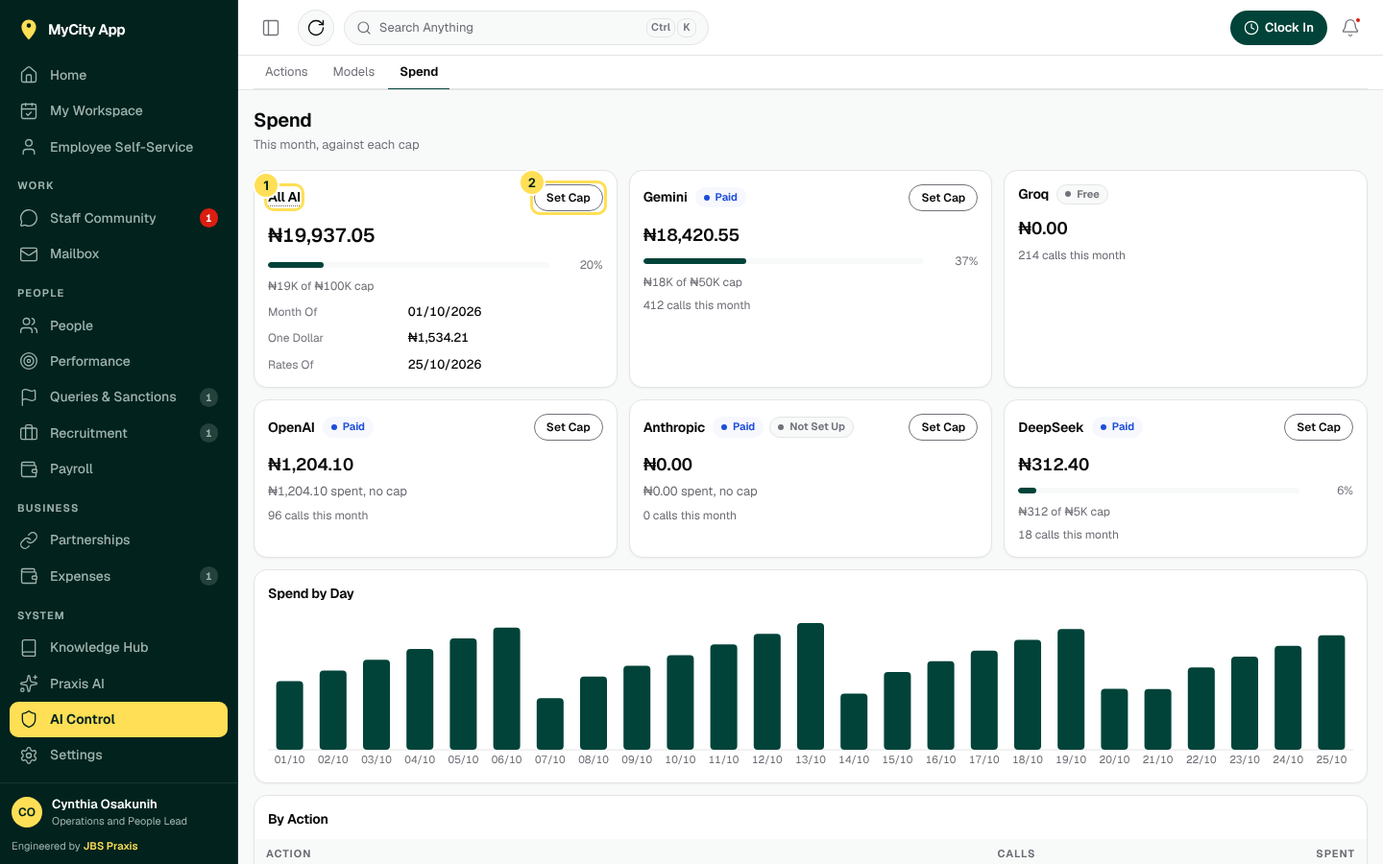
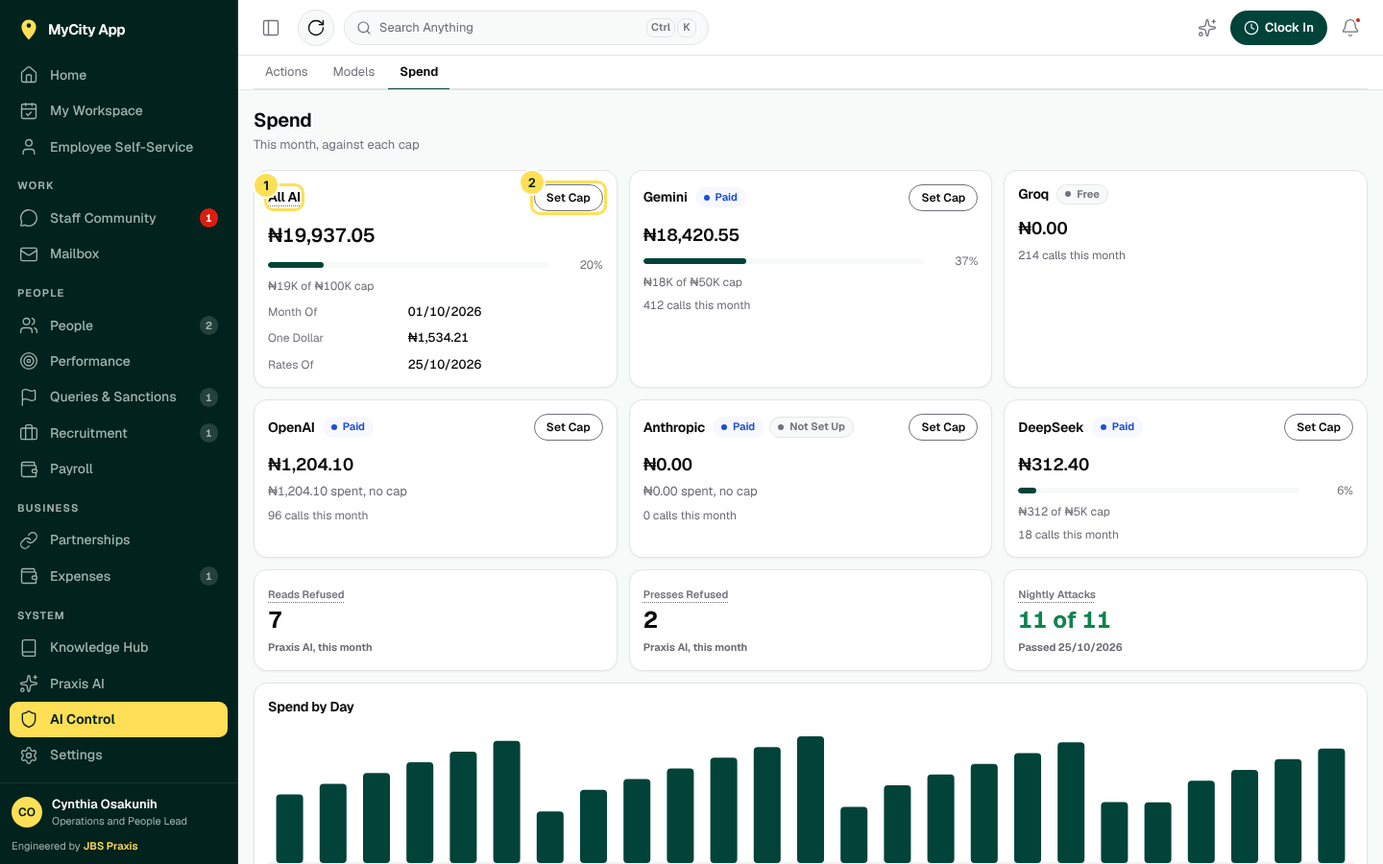
docs(praxis-ai): PR5's documents, the matrix walks pages, the probes find their records through services
The guide's §6.17 (the probes, the attack suite, the nightly run, Spend's figures), §2, §3, §4, §7,
§10, §13 and §14; ai-control.md, policies.md and nine module guides; the User Guide's Praxis AI and
AI Control chapters with their pictures retaken; MILESTONES §15, DATABASE_SCHEMA, README, the
runbooks and SYSTEM_ARCHITECTURE for deploy-gate attack; the handoff's §4, §6.5 and §8 and the
PROGRESS note. The matrix walks up to ten pages of a list, so an all-scope reader's record past the
first page counts; a probe's fresh day is a working day; the approvals probe asks for the approve
grant the queue asks for; the tasks probe shapes its values by the tool probed.

Claude-Session: https://claude.ai/code/session_01AcPpFFJKUaeGvYwdT4JxTu

diff --git a/tests/integration/ai-matrix.test.js b/tests/integration/ai-matrix.test.js
@@ -104,14 +104,14 @@ describeDb("the access matrix on the real migrations and the staging seeds", () 
   const reports = new Map();
   let outsider = null;
   let leaveTypeId = null;
-  const channels = new Map();
   let roles = [];
   let cases = [];
-  /* Weekdays ahead, each handed out once: a probe's leave request or meeting never overlaps another's. */
+  /* Working days ahead (the company's week, public holidays out), each handed out once: a probe's leave request or meeting never overlaps another's. */
+  let calendar = null;
   let dayCursor = new Date(Date.now() + 21 * 86_400_000);
   const freshDay = () => {
     do dayCursor = new Date(dayCursor.getTime() + 86_400_000);
-    while (dayCursor.getUTCDay() === 0 || dayCursor.getUTCDay() === 6);
+    while (!workingWeek.isWorkingDay(dayCursor.toISOString().slice(0, 10), calendar));
     return dayCursor.toISOString().slice(0, 10);
   };
 
@@ -172,7 +172,7 @@ describeDb("the access matrix on the real migrations and the staging seeds", () 
     outsider.scope = await scopeFor(outsider.user, "workspace", "create");
     people.set("ceo", await grantsCache.getAuthUser(pool, ceo.user_id));
     leaveTypeId = (await q("SELECT leave_type_id FROM leave_type WHERE code = 'annual' AND active")).rows[0].leave_type_id;
-    for (const r of (await q("SELECT community_channel_id, name FROM community_channel")).rows) channels.set(r.name, r.community_channel_id);
+    calendar = await workingWeek.loadCalendar(pool);
     await drainOutbox();
     registry.load();
     const tools = [...registry.reads(), ...registry.summaries(), ...registry.actions()];
@@ -279,11 +279,11 @@ describeDb("the access matrix on the real migrations and the staging seeds", () 
       const actor = { ...u, scope };
       const ctx = {
         actor,
+        key: k.key,
         role: k.role,
         report: reports.get(k.role) || null,
         outsider,
         leaveTypeId,
-        channelId: (name) => channels.get(name),
         freshDay,
         capabilities: u.is_ceo === true ? ["home.team"] : await grantsCache.getCapabilities(pool, u.user_id),
         scopeOf: (module, action) => scopeFor(u, module, action),

diff --git a/src/modules/tasks/tasks.ai.js b/src/modules/tasks/tasks.ai.js
@@ -19,15 +19,11 @@ const taskLink = (id) => (routeMap.linkFor("task", id) || {}).path || null;
  * them for themselves, and one on an outsider's board, set by the outsider; the list must return the
  * first and never the second, and a card naming the second is refused by the module's own check.
  */
+/** A probe's answer for one task: the card's values as the tool being probed takes them. */
+const forTask = (ctx, t) => ({ type: "task", id: t.task_id, values: ctx.key === "tasks.comment" ? { task_id: t.task_id, body: "A note from the matrix" } : { task_ids: [t.task_id] } });
 const probe = {
-  inside: async (ctx) => {
-    const t = await service.create(ctx.actor, ctx.actor.scope, { title: `Matrix task for ${ctx.role}` });
-    return { type: "task", id: t.task_id, values: { task_ids: [t.task_id], task_id: t.task_id, body: "A note from the matrix" } };
-  },
-  outside: async (ctx) => {
-    const t = await service.create(ctx.outsider.user, ctx.outsider.scope, { title: `Outsider's task, seen by ${ctx.role}` });
-    return { type: "task", id: t.task_id, values: { task_ids: [t.task_id], task_id: t.task_id, body: "A note from the matrix" } };
-  },
+  inside: async (ctx) => forTask(ctx, await service.create(ctx.actor, ctx.actor.scope, { title: `Matrix task for ${ctx.role}` })),
+  outside: async (ctx) => forTask(ctx, await service.create(ctx.outsider.user, ctx.outsider.scope, { title: `Outsider's task, seen by ${ctx.role}` })),
 };
 
 module.exports = defineManifest({

diff --git a/src/modules/community/community.ai.js b/src/modules/community/community.ai.js
@@ -33,8 +33,16 @@ async function privateChannelOf(ctx) {
  * posted in; a private channel of the outsider's alone is never listed and a card posting in it is
  * refused. A message goes to a colleague on the staff, never to an id that is nobody's.
  */
+/** #general, which every login joins the first time it lists its channels. */
+async function generalChannelOf(ctx) {
+  const general = (await service.listChannels(ctx.actor, {})).data.find((ch) => ch.name === "general");
+  return general ? general.community_channel_id : null;
+}
 const channelProbe = {
-  inside: (ctx) => ({ type: "channel", id: ctx.channelId("general"), values: { community_channel_id: ctx.channelId("general"), body: "A note from the matrix" } }),
+  inside: async (ctx) => {
+    const id = await generalChannelOf(ctx);
+    return id ? { type: "channel", id, values: { community_channel_id: id, body: "A note from the matrix" } } : null;
+  },
   outside: async (ctx) => ({ type: "channel", id: await privateChannelOf(ctx), values: { community_channel_id: await privateChannelOf(ctx), body: "A note from the matrix" } }),
 };
 const messageProbe = {

diff --git a/src/modules/workflow/workflow.ai.js b/src/modules/workflow/workflow.ai.js
@@ -28,11 +28,12 @@ async function waitingFrom(ctx, who) {
 
 /**
  * The matrix's scope probes (docs/guides/praxis-ai.md §6.17): the queue is what waits on the asker, so
- * a report's request (they are its line manager) is in it and an outsider's never; a card naming the
- * outsider's is refused by the module's own check, unless the asker reads every request (`people` all).
+ * a report's request (they are its line manager, and they hold approve on leave's module, which the
+ * queue asks for too) is in it and an outsider's never; a card naming the outsider's is refused by the
+ * module's own check, unless the asker reads every request (`people` all).
  */
 const probe = {
-  inside: (ctx) => (ctx.report ? waitingFrom(ctx, ctx.report) : null),
+  inside: async (ctx) => (ctx.report && (await ctx.scopeOf("people", "approve")) ? waitingFrom(ctx, ctx.report) : null),
   outside: async (ctx) => {
     const people = await ctx.scopeOf("people", "view");
     return people && people.scope === "all" ? null : waitingFrom(ctx, ctx.outsider);

diff --git a/docs/handoff/praxis-ai-engine.md b/docs/handoff/praxis-ai-engine.md
@@ -10,7 +10,7 @@ and its record. It follows the shape of `docs/handoff/notifications-everywhere.m
 | | |
 |---|---|
 | Branch | One branch per PR, from the latest `main` (§4). PR1 was built on `claude/engine-upgrade-guide-xf4ynp` |
-| Pull requests | PR1 praxisjbs/mycity-app#49, merged 01/11/2026; PR2 praxisjbs/mycity-app#50, merged 01/11/2026; PR3 praxisjbs/mycity-app#51, merged 01/11/2026; PR4 praxisjbs/mycity-app#53, merged 01/11/2026 (§6 holds each PR's state) |
+| Pull requests | PR1 praxisjbs/mycity-app#49, merged 01/11/2026; PR2 praxisjbs/mycity-app#50, merged 01/11/2026; PR3 praxisjbs/mycity-app#51, merged 01/11/2026; PR4 praxisjbs/mycity-app#53, merged 01/11/2026; PR5 praxisjbs/mycity-app#56, opened 01/11/2026 (§6 holds each PR's state) |
 | Owner | JBS Praxis (the owner), with TB and GE as the module's owners |
 | Type | Full stack (CLAUDE.md step 1): backend, contract, migrations, screens, gates and documents |
 | Started | 01/11/2026 |
@@ -308,7 +308,7 @@ result line sits under the card. History is unchanged.
 | **PR2** | Full screen and the pane | `claude/sharp-planck-z0g9va` (praxisjbs/mycity-app#50) | Decisions 12, 13, 23: the full-screen Praxis AI with Back and context, the Assistant group in `packages/ui` (conversation, chips, the four pane views, charts, the phone sheet, progress), Table paging through read replay, Record, Sources; the User Guide chapter and pictures | PR1 | Every pane view works on desktop and at 375 px, light and dark; Back returns to the exact screen with its filters; progress shows while reads run; the old Ask's tests moved onto the new screen; gates 8, 11, 21 green |
 | **PR3** | Large data and Excel | `claude/clever-pasteur-nt3rsc`, praxisjbs/mycity-app#51 (merged 01/11/2026) | Decisions 14, 15: summary reads for attendance, tasks, leave, approvals, performance, the Audit Log and employees; the statement timeout and the narrow-down answer; Overview's figures and chart; Download Excel with the provenance sheet through the export path; the summary cache | PR1 (runs beside PR2) | A 25,000-row export completes in the worker and downloads; a read that would scan too much asks to narrow; the model never receives rows from a summary (asserted); Overview shows a chart the server drew |
 | **PR4** | Action cards | `ccr-e4d934cb-hbbhlg` (the session's), praxisjbs/mycity-app#53 (merged 01/11/2026) | Decisions 10, 11, 19, 20, 21: actions declared in Workspace (tasks, calendar), ESS and People (leave request, approve, reject), Approvals (decide), Staff Community (message a colleague, post in a channel), Mailbox (send a mail), Performance (a check-in note where the service allows); the card on screen with Edit, Cancel and the confirm sheet (passkey, PIN, password); bulk up to 25; suggested cards; per-module `not_offered` accounting | PR1 and PR2 | Approve 4 leave requests from the chat works with a passkey and with a PIN; a card replayed after rights were removed is refused; "Tell Ada" drafts a direct message the person sends with one press; a mail drafted from the chat arrives with the company signature; gate 23's action rules green for every module |
-| **PR5** | Proof and switch-over | `m10/praxis-ai-pr5` or the session's | Decisions 26, 27: scope probes per module in the matrix, the attack suite in CI and nightly on staging with the real model, refusal and leak monitoring on AI Control, gate 23's `not_offered` rule made universal, the old Ask retired, `praxis-ai.md` §2 and §10 rewritten to what ships, the User Guide chapter final, the extraction note | PR3 and PR4 | Every listed attack fails safely with the model scripted and with the real model; a planted leak fails the build; the nightly run alerts on a refusal that leaked; the guide and the manual describe one screen |
+| **PR5** | Proof and switch-over | `ccr-0f62841c-d228ng` (the session's), praxisjbs/mycity-app#56 | Decisions 26, 27: scope probes per module in the matrix, the attack suite in CI and nightly on staging with the real model, refusal and leak monitoring on AI Control, gate 23's `not_offered` rule made universal, the old Ask retired, `praxis-ai.md` §2 and §10 rewritten to what ships, the User Guide chapter final, the extraction note | PR3 and PR4 | Every listed attack fails safely with the model scripted and with the real model; a planted leak fails the build; the nightly run alerts on a refusal that leaked; the guide and the manual describe one screen |
 
 **Order.** PR1 first and alone. PR2 and PR3 start together the moment PR1 merges, in two chats. PR4
 starts when PR2 merges (its card is drawn inside PR2's conversation; its backend half may start on
@@ -697,14 +697,14 @@ Tick with the date. A PR's row in §4 moves to its number when opened and "merge
 - [x] 01/11/2026 · The evaluation set's eleven action cases and `card.not-mine` (`no_action`); the attack scaffold in `ai-cards.test.js` (one's own request, a grant never reached, a stranger as recipient, a mail without a mailbox); `ai-actions-{workspace,leave,approvals,community,mailbox}.test.js` on the real migrations (four leave requests approved with a passkey, two rejected with a PIN, self-approval and a request outside scope refused, Tell Ada, a mail queued with the signature baked); `tests/integration/helpers/ai-actions.js`
 - [x] 01/11/2026 · Guide §2, §5, §6.11, §8, §10, §11, §14; each module's guide §9 (workspace, ess, community, mailbox, foundation, performance) and `identity.md`; the User Guide chapter's card section with its picture; PROGRESS; README; FRONTEND_GUIDE §9.1
 
-### 6.5 PR5 · Proof and switch-over
+### 6.5 PR5 · Proof and switch-over (started 01/11/2026, praxisjbs/mycity-app#56)
 
-- [ ] Scope probes in the matrix for every module with team or own scopes
-- [ ] The attack suite in CI; attack-assistant.js; the nightly workflow on staging
-- [ ] Refusals and the nightly result on AI Control · Spend; the urgent notice on a leak
-- [ ] Gate 23's not_offered rule universal; every module swept
-- [ ] The old Ask retired; one screen; dead code removed
-- [ ] Guide §2, §3, §10, §13 final; the User Guide chapter final; MILESTONES §15; README; PROGRESS
+- [x] 01/11/2026 · Scope probes in the matrix: `matrix: { inside, outside }` on the scoped reads and actions of Workspace (`tasks.list`, `tasks.complete`, `tasks.comment`, `calendar.month`), People (`employees.list`, `leave.requests`, `leave.approve`, `leave.reject`, `attendance.register`), Home (`team.today`, `activity.list`), ESS (`my_profile.get`, `my_leave.list`), approvals (`approvals.mine`, `approvals.decide`) and Staff Community (`channels.list`, `community.post`, `community.message`), each built through the module's own service from the `ctx` the suite hands it; the matrix gives each role a report and itself an outsider, walks a list's pages, and asserts every probe (`praxis-ai.md` §6.17). Performance and Queries carry none, and say why
+- [x] 01/11/2026 · The attack suite: `scripts/ai/attack-assistant.js` (eleven attacks, the grades, the run recorded through `recordAttackRun`, production refused), `tests/integration/ai-attacks.test.js` (each attack with the model scripted, every refusal counted, a run recorded and its leak told), `tests/unit/foundation/ai-attacks.test.js`; `deploy-gate attack` (the staging key's third command, no deploy lock, the release's own code) with its refusals in `deploy.test.js`; `.github/workflows/ai-nightly.yml` at 02:17 Lagos, failing loudly on a leak and warning on a run that could not run; releases now carry `scripts/ai`
+- [x] 01/11/2026 · Refusals and the nightly result on AI Control · Spend: `AiSpend.praxis_ai` (`AiPraxisSpend`, `AiAttackRun`), migration `10350` `ai_attack_run`, `assistant.action_refused` recorded at a press refused for want of rights, Reads Refused, Presses Refused and Nightly Attacks as KpiCards with help terms on both shells; `ai_control.attack_leaked` the one notice AI Control sends (urgent, `ai_control` edit, Acknowledge, opens Spend)
+- [x] 01/11/2026 · Gate 23's not_offered rule universal: every module whose contract exports a `<Thing>Create` schema offers it, lists it in `not_offered` with a reason or opted out whole with one; thirteen manifests gained their reasons; `--list` prints the sweep
+- [x] 01/11/2026 · The old Ask retired (decision 27): the floating button's Praxis AI opens the one full-screen Praxis AI with the screen underneath as `from`; `AskPanel.tsx` and its test removed, `ChatPage` carries no context; guide §2, §3 step 8, §10 and the User Guide chapter follow
+- [x] 01/11/2026 · Guide §6.17, §4, §7, §13 (what an extraction moves and what stays), §14; `ai-control.md` §2, §4, §5, §7, §10, §14; `policies.md` (the `policies.read` fix the suite found); the User Guide chapters for Praxis AI and AI Control with their pictures; MILESTONES §15; README; DATABASE_SCHEMA; the runbooks (`deploy.md`, `monitoring.md`) and SYSTEM_ARCHITECTURE §9.5 for `attack`; PROGRESS
 
 ---
 
@@ -716,7 +716,7 @@ Tick with the date. A PR's row in §4 moves to its number when opened and "merge
 | 23 · AI awareness | `scripts/check/ai-awareness.js` | (1) `src/shared/ai/catalogue.snapshot.json` differs from `registry.catalogue()` (keys, kinds, modules, permissions, risk, the hash of each parameter, input and prefill schema): run `npm run gen:ai-catalogue` and review the diff. (2) An action's `input` is not a schema the module's own feature folder validates a form with (`useContractForm(..., <schema>)`), unless the action says `form: "none: <reason>"`. (3) An action key that no integration test exercises, or that the evaluation set (`scripts/ai/eval-assistant.js`) does not grade. (4) A module that declares `actions` and leaves a `<Thing>Create` schema of its contract neither offered nor in `not_offered` with a reason (PR5 makes this rule universal). (5) A Try Asking line (`assistant.suggestions.js`) naming a read that does not exist |
 | 24 · AI engine boundary | `scripts/check/ai-engine-boundary.js` | A file under `src/services/ai/engine/` that requires anything but Node's builtins and its sibling files; a file outside it that reaches into the engine's internals rather than its `index.js` |
 | The matrix | `tests/integration/ai-matrix.test.js` | Any read, summary or action a role may run that `scopeFor` would refuse, or the reverse; a scoped person's rows that the CEO's do not contain; a masked field reaching a person without the field grant; a probe's outside record returned or acted on (PR5) |
-| The attack suite | `tests/integration/ai-cards.test.js` (PR1), `ai-attacks.test.js` (PR5), nightly `scripts/ai/attack-assistant.js` (PR5) | A card run twice, expired, after a grant was removed, over 25 records, or sensitive without a fresh confirm; and from PR5 every attack of §5's PR5 prompt |
+| The attack suite | `tests/integration/ai-cards.test.js` (PR1), `ai-attacks.test.js` (PR5), nightly `scripts/ai/attack-assistant.js` through `deploy-gate attack` and `.github/workflows/ai-nightly.yml` (PR5) | A card run twice, expired, after a grant was removed, over 25 records, or sensitive without a fresh confirm; and from PR5 every attack of §5's PR5 prompt: another person's pay, a guessed id, instructions planted in a message, a note and a policy, an action outside scope, self-approval, a card after the grant went, a bulk card over 25, a mail outside from a suggested card, a read never offered. With the real model a leak fails the nightly and is an urgent notice; AI Control · Spend shows the last run |
 
 ---
 
@@ -782,6 +782,24 @@ Tick with the date. A PR's row in §4 moves to its number when opened and "merge
   `scripts/check/ai-awareness.js` (offered by any manifest), `app/src/auth/FreshSignIn.tsx` (the
   order, `onConfirmed`), the module services and repos the actions run through. Merged as
   praxisjbs/mycity-app#53 once CI was green on GitHub; PR5 may start.
+- 01/11/2026 · JP · PR5 built (§6.5) in one chat, on the session's branch, as praxisjbs/mycity-app#56,
+  once release run 73 had sealed `08f6f0b` (PR1 to PR4 and the boot fix #55) on staging. The matrix's
+  probes, the attack suite and its nightly run, Spend's three figures with the leak notice, gate 23
+  universal, the old Ask retired, the documents final. Found on the way: `policies.read` returned a
+  list envelope for one record and the read guard had refused it since it shipped (the attack suite's
+  planted-policy case found it; fixed, `policies.md`); the three bulk schemas' limit reached a card
+  as Zod's own words ("Array must contain at most 25 element(s)"), now "At most 25"; a scoped module's
+  probe cannot use SQL (gate 19 refused `ctx.db.query` in a manifest), so the suite hands probes the
+  annual leave type and the probes find #general through the service; a list read's inside record
+  may sit past the first page for an all-scope reader, so the matrix walks up to ten pages, which
+  also made the subset rule honest for a CEO's list longer than a page; `GET /notifications` carries
+  no event key, so the leak notice is found by its title on the urgent list. The `attack` command
+  changes `deploy-gate`, so the server's copy must be reinstalled (`deploy.md` §5) before the next
+  release and the first nightly pass check-gate; the nightly needs a provider set up on staging,
+  else it reads Could Not Run. A cloud session's image again lacked `node_modules`, Node 20 and
+  pgvector (installed by hand: `npm ci`, a Node 20 tarball under `/opt/node20`,
+  `postgresql-16-pgvector` after `apt-get update`). Performance and Queries carry no probe (their
+  records need a plan, a round or a raised query), said so in §6.17.
 - 01/11/2026 · JP · The first full run fell on a month's first day and found the suite assumed
   October: the staging reviews seed bound the plans at the real clock, so October's round opened
   with no reviews (on staging too, from 1 November); four screen tests of attendance and the

diff --git a/docs/PROGRESS.md b/docs/PROGRESS.md
@@ -1299,6 +1299,7 @@ order, then PR 3, PR 4 and PR 5 in parallel; each PR moves its own row)
 
 **Notes**
 
+- 01/11/2026 · JP · Praxis AI Engine PR5 of 5, proof and switch-over (`docs/handoff/praxis-ai-engine.md` §6.5; `docs/guides/praxis-ai.md` §6.17, decisions 26 and 27). Built: scope probes on the scoped reads and actions of Workspace, People, Home, ESS, approvals and Staff Community, which the matrix proves for every role with a report and an outsider of its own (a read returns the record inside the person's reach and never the one outside it; a card naming the outside one is refused); the attack suite (`scripts/ai/attack-assistant.js`: eleven attacks, from a colleague's pay and a guessed id through instructions planted in a message, a note and a policy to a bulk card over 25 and a mail offered unasked to an outside address), run with the model scripted on every PR (`tests/integration/ai-attacks.test.js`) and asked of the real model on staging every night (`.github/workflows/ai-nightly.yml` through `deploy-gate attack`), its run recorded (`ai_attack_run`, migration `10350`); AI Control · Spend (#ai_control) shows Reads Refused, Presses Refused and the nightly's last result, and a leak is an urgent notice to whoever may change AI Control; gate 23's Create rule universal (thirteen manifests gained their `not_offered` reasons); the old Ask retired: the floating button opens the one full-screen Praxis AI with the screen underneath as context, `AskPanel` gone; the guide's §2, §3, §10 and §13 and the User Guide chapter describe the one screen. Found on the way: `policies.read` had been refused by the read guard since it shipped (fixed); the bulk lists' limit reads At most 25. Left: nothing of the engine's five PRs; the extraction into JBS Praxis's own repository is a later PR there (§13); Performance and Queries probes wait on records their suites can build.
 - 01/11/2026 · JP · Praxis AI Engine PR4 of 5, action cards (`docs/handoff/praxis-ai-engine.md` §6.4; `docs/guides/praxis-ai.md` §6.11, decisions 10, 11, 19, 20, 21). Built: ten actions declared beside their modules' reads, each the screen's own service function with the person's rights re-checked at the press: `tasks.complete` (Mark Done on up to 25 tasks), `tasks.comment`, `calendar.create`, `my_leave.request`, `leave.approve` and `leave.reject` (up to 25, after Confirm It's You, never one's own), `approvals.decide` (approve, reject or request changes on the requests waiting on the person; one decided on its record refused with its screen), `community.message` ("Tell Ada", sent with one press), `community.post`, `mail.send` (a new `mailbox.ai.js` with no read; the mail saved as a draft and queued with the signature baked; refused without a mailbox); goals declares none and says why; every other Create schema `not_offered`, gate 23 counting an input offered by any manifest. A card names its records through the module's own repo (`records(values, actor, db)`), a bulk card reads back a line per record, and every text is held to ready to send as Write With AI is ("Fill the gap"); prompt version 6. On screen (#67, both shells): `ActionCard` and `ResultLine` in the Assistant group, drawn inside an answer by `app/src/features/assistant/Card.tsx` on the full screen and in the phone's chat (`shows: ["cards", "pane"]`): the fields as a person reads them, the records as chips, the verb with the count, Edit through the form system from the action's own schema, Cancel, a suggested card as a question with Not Now, Confirm It's You before a sensitive card (a passkey first, `useFreshSignIn` reordered) with Set Passkey offered once, Draw It Again on an expired card, Open Mailbox on a mail without one; the mock draws the cards. Tests: `ai-actions-{workspace,leave,approvals,community,mailbox}.test.js` on the real migrations (26 cases: four leave requests approved with a passkey, two rejected with a PIN, self-approval and a record outside scope refused, a gap held on its field, a mail queued and refused), the attack scaffold in `ai-cards.test.js` extended (4), 8 for the two components, 6 screen tests for the card, the evaluation set's eleven action cases and one a person may not make. The User Guide chapter's card section rewritten with its picture. Left: PR5 (proof and switch-over).
 - 01/11/2026 · JP · Praxis AI Engine PR3 of 5, large data and Excel (`docs/handoff/praxis-ai-engine.md` §6.3; `docs/guides/praxis-ai.md` §6.13, §6.16, decisions 14 and 15). Built: eight summary reads beside their modules' reads (`attendance.summary`, `tasks.summary`, `leave.summary`, `approvals.summary`, `goals.summary`, `reviews.summary`, `employees.summary`, `audit.summary`, the Audit Log dropping its `ai:none`), each one SQL in its repo with the reader's scope, at most 20 groups, 10 in a top list and 60 points, never a row, with their query schemas in the contract and `shared/ai/summary.js` naming the figures; every read and summary inside its own transaction with a 3 second statement timeout and a 4 second deadline (`authorise.guarded`), a read the database cuts kept as `timed_out` (migration `10340`) and the model told "too much" to narrow the question; the summary cache in Redis (`shared/ai/summary-cache.js`, 60 seconds, keyed by person and scope); Overview's chart title checked against every value the summary holds, prompt version 5; Download Excel (`POST /ai/answers/:id/reads/:n/export`, `ai_answer_export`, `assistant.read_export_requested`) replaying the read page by page in the worker with the person's rights now, 25,000 rows at most, with About This File; the evaluation set's six summary questions. Tests: `tests/unit/foundation/ai-summaries.test.js` (11), `tests/integration/ai-summaries.test.js` (10 on the real migrations: scope, the caps, the cache, the timeout through a question, Overview, the export and its cap). Once PR2 merged, the Table's Export was wired on the full screen (`app/src/features/assistant/Pane.tsx`, the mock's route, a screen test; User Guide chapter and its pictures). Left: PR4 (the cards), PR5 (proof and switch-over); an index on `attendance_day (attendance_date)` alone, should the company's attendance outgrow the seek on the existing one (LA's table).
 - 01/11/2026 · JP · Praxis AI Engine PR2 of 5, the full screen and the pane (`docs/handoff/praxis-ai-engine.md` §6.2; `docs/guides/praxis-ai.md` decisions 12, 13, 23). Ask (#67) reshaped: on desktop the conversation beside the right pane (Overview, Table, Record, Sources; an empty tab disabled), Back to the screen it was opened from (its address travels as `from`: the question's context, `AiAsk.context` with `shows: ["pane"]`, and where Back, Escape and the browser's Back return, filters and all; from the menu, ⌘K or History, Back goes to History), Recent behind a toggle, the latest answer's pane shown and an earlier answer's chip or Open Figures bringing its own back, the Praxis AI button on every screen's top bar; on a phone opened from a screen the conversation full width and Open Figures opening the pane as a sheet, the floating button's chat sending the screen underneath as context. The Table pages the answer's read again (`GET /ai/answers/:id/reads/:n`, 25 a page, up to 200 rows), a row or the one record opens the Record with Open Record, Sources lists every read with its filters, rows, outcome and the fields masked. Progress over realtime: `assistant.service` pushes `ai:progress` before each read with the question's `Idempotency-Key`, and the screen says Reading leave requests · 2 of 5 for that question alone. New in `packages/ui`: the Assistant group (AssistantShell, AnswerBubble, SourceChip, PaneTabs, OverviewPane, TablePane, RecordPane, SourcesPane, ProgressLine, PaneSheet), each with header, test and gallery page. The contract's `AiReadMade` gains `masked` and `AiAnswerTable` the `read` it came from. Tests: 39 for the group, the Ask suite moved onto the new screen with 7 added (Back and Escape, the context sent, the pane's tabs, an earlier answer's pane, progress, the phone's sheet), the context helper (4), the panel's context, the orchestrator's hook and the service's push. The User Guide chapter rewritten with its pictures retaken. Left: Overview's figures and Download Excel (PR3), the card (PR4), sorting in the Table (the replay route takes only `page`; a sort waits on PR3's read parameters), History unchanged.

diff --git a/docs/guides/praxis-ai.md b/docs/guides/praxis-ai.md
@@ -9,7 +9,7 @@
 | Permission key(s) | `praxis_ai` |
 | Capabilities | none |
 | Screens (PROGRESS.md rows) | Praxis AI · Ask and History (#67, #68) |
-| Status | Draft |
+| Status | Built |
 | Last changed | 01/11/2026 |
 
 Sources: MILESTONES §15 (M10's assistant, its definition of done) and A23 (it reads; since
@@ -740,8 +740,8 @@ outside }`, beside its `run`: `inside(ctx)` is a record within the asking person
 the person, a leave request by a report of theirs, one by an outsider nobody manages), or `null`
 when there is nothing to assert for that person (a reader with no report, a role that sees
 everything has nothing outside). The suite gives each role one report and itself one outsider, and
-hands every probe a `ctx`: the actor with the tool's scope, their report, the outsider, the annual
-leave type, a channel by name, a fresh weekday, their capabilities and `scopeOf()`. A read must
+hands every probe a `ctx`: the actor with the tool's scope, the tool's key, their report, the
+outsider, the annual leave type, a fresh working day, their capabilities and `scopeOf()`. A read must
 return the inside record and never the outside one; a card naming the outside record must be
 refused by `authorise.checkAction` or the action's own `check`. Probed: Workspace (`tasks.list`,
 `tasks.complete`, `tasks.comment`, `calendar.month`), People (`employees.list`, `leave.requests`,
@@ -965,6 +965,7 @@ to this repository's rules, and ported code never names where it came from.
 
 ## 14 · Change log
 
+- 01/11/2026 · JP · Praxis AI Engine PR5, proof and switch-over (`docs/handoff/praxis-ai-engine.md` §6.5; decisions 26 and 27): §6.17 written. The matrix gains scope probes (`matrix: { inside, outside }` beside the scoped reads and actions of Workspace, People, Home, ESS, approvals and Staff Community; each role a report, the suite an outsider; a read returns the inside record and never the outside one, a card naming the outside one is refused by the server's check). The attack suite: `scripts/ai/attack-assistant.js` names eleven attacks and grades the real model's answers (a leak against a catch), `tests/integration/ai-attacks.test.js` runs each with the model scripted on every PR, and `.github/workflows/ai-nightly.yml` asks them of the real model on staging every night through `deploy-gate attack`, recording the run on `ai_attack_run` (migration `10350`, §4) through AI Control's service; AI Control · Spend shows Reads Refused, Presses Refused and the nightly's last result, and a leak is an urgent notice to whoever may change AI Control (`ai-control.md` §7, §10). A press refused for want of rights is `assistant.action_refused` (§7). Gate 23's Create rule is universal (§6.15): every module whose contract exports a Create schema offers it, lists it in `not_offered` or opted out whole; thirteen manifests gained their reasons. The old Ask retired (decision 27): the floating button opens the one full-screen Praxis AI with the screen underneath as `from` (§2, §3 step 8, §10); `AskPanel` and its test are gone. §13 item 5 says what an extraction would move and what stays. Found on the way: `policies.read` returned a list for one record and had been refused by the read guard since it shipped (`policies.md`); the bulk lists' limit now reads At most 25 on a card.
 - 01/11/2026 · JP · Praxis AI Engine PR4, action cards (`docs/handoff/praxis-ai-engine.md` §6.4; decisions 10, 11, 19, 20, 21): ten actions declared beside their modules' reads (§6.11's table: `tasks.complete`, `tasks.comment`, `calendar.create`, `my_leave.request`, `leave.approve`, `leave.reject`, `approvals.decide`, `community.message`, `community.post`, `mail.send`, the mailbox gaining a manifest with no read), each the screen's own service function, a bulk one a line per record; goals declares none and says why; every other Create schema `not_offered`. `records(values, actor, db)` names a card's records through the module's own repo at the draft and the press (`authorise.checkAction` takes a database handle); every text a card carries is held to ready to send as Write With AI is (`answer.gapsIn`, "Fill the gap"); `AiCardField.long`; prompt version 6 (the whole text, nothing invented, no sign-off; only requests waiting on the person; a suggested card as a question). On screen (§2, §10): `ActionCard` and `ResultLine` in the Assistant group, wired by `app/src/features/assistant/Card.tsx` on the full screen and in the phone's chat (`shows: ["cards", "pane"]`); Edit through the form system from the action's schema by its name; Confirm It's You before a sensitive card, a passkey first (`useFreshSignIn` reordered, `identity.md` §10), Set Passkey offered once; Draw It Again; a suggested card as a question with Not Now; Open Mailbox on `NO_MAILBOX`. Gate 23 counts an input offered by any manifest (ESS offers leave's own request). Tests: the matrix covers the actions; `tests/integration/ai-actions-{workspace,leave,approvals,community,mailbox}.test.js` on the real migrations (four leave requests approved with a passkey and two rejected with a PIN, self-approval and a record outside scope refused, Tell Ada sent with one press, a mail queued with the signature baked and refused without a mailbox, a gap held on its field); the attack scaffold extended in `ai-cards.test.js`; the evaluation set's action cases, one per action, and a change the person may not make. §8, §11.
 
 - 01/11/2026 · JP · Praxis AI Engine PR3, large data and Excel (`docs/handoff/praxis-ai-engine.md` §6.3; decisions 14 and 15): eight summary reads declared beside their modules' reads (§6.13 table: attendance, tasks, leave, approvals, performance, reviews, employees, the Audit Log, which drops its `ai:none`), each one SQL with the reader's scope, 20 groups, 10 in a top list, 60 points, never a row, shaped through `shared/ai/summary.js`; every read and summary runs inside its own transaction with a 3 second statement timeout and a 4 second deadline (§6.3 step 8, `authorise.guarded`), a read the database cuts is `timed_out` (migration `10340`, §4; `AiReadMade.outcome`) and the model is told "too much"; the summary cache in Redis, 60 seconds, never across people; Overview drawn from the summary with a title check against every value the summary holds, prompt version 5; Download Excel through the one export path with About This File and a 25,000-row cap (§5, §6.16, §7); the evaluation set's summary questions (§6.10). Found on the way: a read whose service runs on the pool cannot be reached by `SET LOCAL`, so the deadline is held in the guard as well; the attendance seed does not reach the test database, so the suite inserts its own days.

diff --git a/docs/manual/ai-control.md b/docs/manual/ai-control.md
@@ -206,15 +206,22 @@ Spend shows what AI has cost this month, in naira, against each cap.
 3. Each provider shows **Free** or **Paid**, what it spent and this month's calls. A paid one shows
    its cap, or *no cap*. **Not Set Up** means it has no key; **At Cap** means it reached its cap.
    The bar turns amber at 80% and red at 100%.
-4. On a computer, **Spend by Day** shows a bar for each day.
-5. **By Action** lists **Action** (its job under it), **Calls** and **Spent**. With nothing spent
+4. Three tiles show Praxis AI: **Reads Refused** and **Presses Refused** this month, and
+   **Nightly Attacks**, the last result of the questions asked of Praxis AI every night to make sure
+   it gives nobody what their own screens would not. It reads, for example, *11 of 11* with
+   **Passed** and the day; in red, **Leaked**; **Could Not Run** or **Failed**; before the first
+   run, **Not Run**. Hover a tile's title (tap it on a phone) for what it counts.
+5. On a computer, **Spend by Day** shows a bar for each day.
+6. **By Action** lists **Action** (its job under it), **Calls** and **Spent**. With nothing spent
    this month it says **Nothing Spent**.
 
 If the tab says **This did not load** with **Try Again**, the spend could not be read: press
 **Try Again**.
 
 Nobody is notified when a cap is near or reached. Check Spend to know when to top up a provider's
-account.
+account. A leak the nightly questions find is the one thing AI Control tells you about: an urgent
+notice to everyone who may change AI Control, which stays until one of you presses **Acknowledge**,
+and opens Spend.
 
 ### Set a cap {#ai-control-spend-cap needs="ai_control edit"}
 

diff --git a/docs/guides/organogram.md b/docs/guides/organogram.md
@@ -477,6 +477,7 @@ while the seat is empty, Etudor Edidiong (Program Manager) answers for them (§6
 
 ## 14 · Change log
 
+- 01/11/2026 · JP · Praxis AI Engine PR5 (`praxis-ai.md` §6.15, §6.17): `employees.list` carries a matrix probe (a report of the asker's listed, an outsider never, for a team or own reader); `organisation.ai.js` accounts for `EmployeeCreate`, `DepartmentCreate` and `OrgSeatCreate` in `not_offered`, as gate 23 asks of every module.
 - 01/11/2026 · JP · §9: `employees.summary`, the register counted for the assistant by department, status, arrangement, type, manager or confirmation due (Praxis AI Engine PR3, `docs/guides/praxis-ai.md` §6.13). Nothing on screen changes.
 - 28/10/2026 · JP · People · Employees' Department filter, Set Head's Open Role and the reporting form's Open Role read their lists 25 at a time and load the next page as the menu nears its end; a vacant seat already chosen reads as its role until its page loads (FRONTEND_FOUNDATION F32, `docs/guides/foundation.md` §6.18). They look as before.
 - 27/10/2026 · JP · The Head mark (JBS Praxis, 27/10/2026; §4, §6, §10): each department in use marks its head's card, Head on the person or the open head role and Acting Head on the first person above an open one, its code added when the department is not the card's own (*Acting Head · PG*). `OrgNode.heads` carries them from the read (`repo.departmentHeads`, `organisation.headOf`), so the desktop cards, the phone's tiles and the PDF say the same words; a person's sheet gains Head Of.

diff --git a/docs/guides/foundation.md b/docs/guides/foundation.md
@@ -1159,6 +1159,7 @@ screen.
 
 ## 14 · Change log
 
+- 01/11/2026 · JP · Praxis AI Engine PR5 (`praxis-ai.md` §6.15, §6.17): `approvals.mine` and `approvals.decide` carry matrix probes (a report's request waiting on the asker who holds approve, an outsider's never, a card naming it refused unless the asker reads every request); `ApprovalDecide` says At most 25 on a card; `imports.ai.js` and `organisation.ai.js` account for their Create schemas in `not_offered` (an import starts on Settings, Imports with its preview in view; Add Employee carries restricted fields, a department and a seat are set with the structure in view), as gate 23 asks of every module.
 - 01/11/2026 · JP · Praxis AI Engine PR4 (`docs/guides/praxis-ai.md` §6.11): My Approvals' card `approvals.decide` in `workflow.ai.js` (the requests waiting on the person decided from the chat through `decide()`, one after another, after Confirm It's You; `workflow.service.cardRecords`, `assertCardInstances`, `decideMany`); §9. Nothing on the Approvals screens changes.
 
 - 01/11/2026 · JP · §9: `approvals.summary` (D) and `audit.summary` (C), the requests waiting on a person and the Audit Log counted for the assistant; `audit` drops its `ai:none` for a manifest with the summary alone (Praxis AI Engine PR3, `docs/guides/praxis-ai.md` §6.13). Nothing on screen changes.

diff --git a/docs/guides/attendance.md b/docs/guides/attendance.md
@@ -1644,6 +1644,7 @@ What each screen shows open, what sits behind help, and how it is laid out on a 
 
 ## 14 · Change log
 
+- 01/11/2026 · JP · `attendance.ai.js` and `worksites.ai.js` account for their Create schemas in `not_offered` (a punch and a check-in are made on the device, a home location and a temporary site are picked on a map, overtime is pre-approved on the screen, a worksite is picked on a map), as gate 23 asks of every module since the Praxis AI Engine's PR5 (`praxis-ai.md` §6.15); `attendance.register` carries a matrix probe (a report of the asker's on today's register, an outsider never; `praxis-ai.md` §6.17).
 - 01/11/2026 · JP · §9: `attendance.summary`, the assistant's figures over a period by person, department, site, day, week or month (Praxis AI Engine PR3, `docs/guides/praxis-ai.md` §6.13). Nothing on screen changes.
 - 01/11/2026 · JP · Tests only, at the month boundary (the Praxis AI Engine's first full run fell on 01/11/2026): the pay-items tests step My Attendance back as many months as the item needs, since the mock's days run six weeks back from yesterday; All Days of a person reads the month that holds days (the month before, on a month's first day) and accepts the day's date shown more than once in its sheet. No screen or rule changes.
 

diff --git a/docs/guides/ess.md b/docs/guides/ess.md
@@ -416,6 +416,7 @@ Deductions figure and every form open the shared modal.
 
 ## 14 · Change log
 
+- 01/11/2026 · JP · Praxis AI Engine PR5 (`praxis-ai.md` §6.17): `my_profile.get` and `my_leave.list` carry matrix probes (the asker's own record and request returned, an outsider's never), and the leave manifest's `leave.requests`, `leave.approve` and `leave.reject` theirs (a report's request in a line manager's reach, an outsider's never, a card naming it refused); `LeaveApprove` and `LeaveReject` say At most 25 on a card.
 - 01/11/2026 · JP · Praxis AI Engine PR4 (`docs/guides/praxis-ai.md` §6.11): the assistant's leave cards, `my_leave.request` (the person's own, Request Leave's service) and, for People, `leave.approve` and `leave.reject` (the requests waiting on them, up to 25 a press, each through the approval's own decide after Confirm It's You; never their own; `leave.service.cardRecords`, `assertCardRequests`, `decideMany`); §9. Nothing on the ESS or People · Leave screens changes.
 
 - 01/11/2026 · JP · §9: `leave.summary`, People's leave counted for the assistant by status, type, person, department or month, with the days taken, booked and waiting (Praxis AI Engine PR3, `docs/guides/praxis-ai.md` §6.13). Nothing on screen changes.
